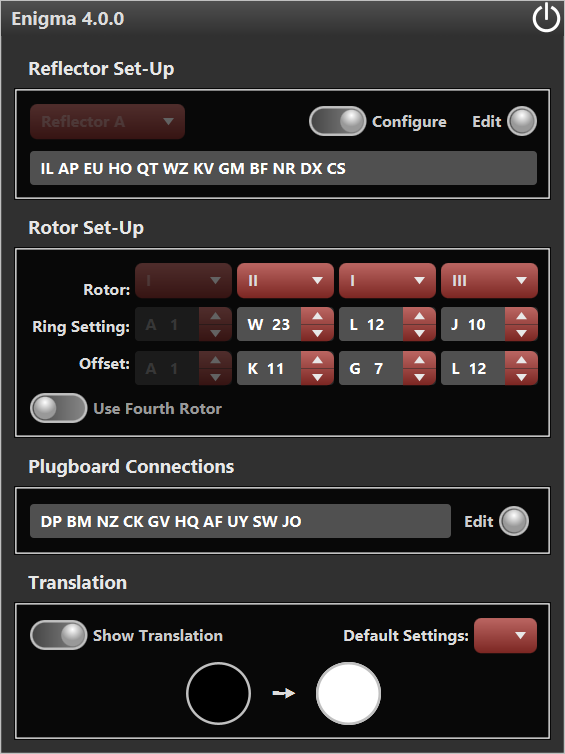
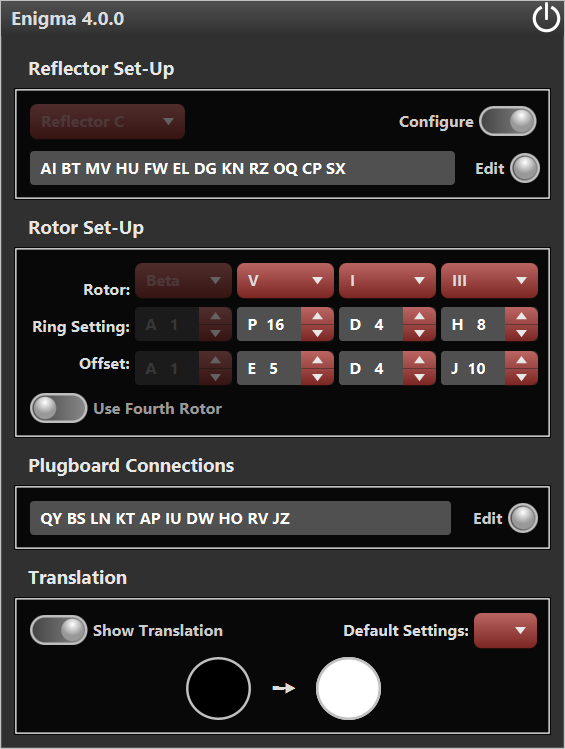
Minor layout changes and code ordering (no functional change).

diff --git a/src/main/java/phillockett65/Enigma/PrimaryController.java b/src/main/java/phillockett65/Enigma/PrimaryController.java
@@ -272,7 +272,7 @@ public class PrimaryController {
             setReconfigurable();
         });
 
-        configureControl = new SwitchControl("Configure", false);
+        configureControl = new SwitchControl("Configure", true);
         configureControl.addEventFilter(SwitchEvent.ANY, this::handleConfigureEvent);
         configureControl.setTooltip("Select to use a configurable Reflector");
 
@@ -282,11 +282,11 @@ public class PrimaryController {
         reflectorEditControl.addEventFilter(ButtonEvent.ANY, this::handleReflectorEditEvent);
         reflectorEditControl.setTooltip("Edit the configurable Reflector");
 
+        reflectorHBox.getChildren().add(reflectorEditControl);
+
         pairList.setTooltip(new Tooltip("Current Reflector configuration"));
 
-        reflectorHBox.getChildren().add(reflectorEditControl);
         displayPairs();
-
         setReconfigurable();
     }
 
@@ -333,12 +333,11 @@ public class PrimaryController {
 
         fourthWheelControl = new SwitchControl("Use Fourth Rotor", false);
         fourthWheelControl.addEventFilter(SwitchEvent.ANY, this::handleFourthWheelEvent);
+        fourthWheelControl.setTooltip("Select to use a fourth Rotor");
 
         fourthWheelHBox.getChildren().add(fourthWheelControl);
 
         rotorSetUpHBox.getChildren().addAll(model.getRotorControls());
-
-        fourthWheelControl.setTooltip("Select to use a fourth Rotor");
     }
 
     private void handleFourthWheelEvent(SwitchEvent event) {
